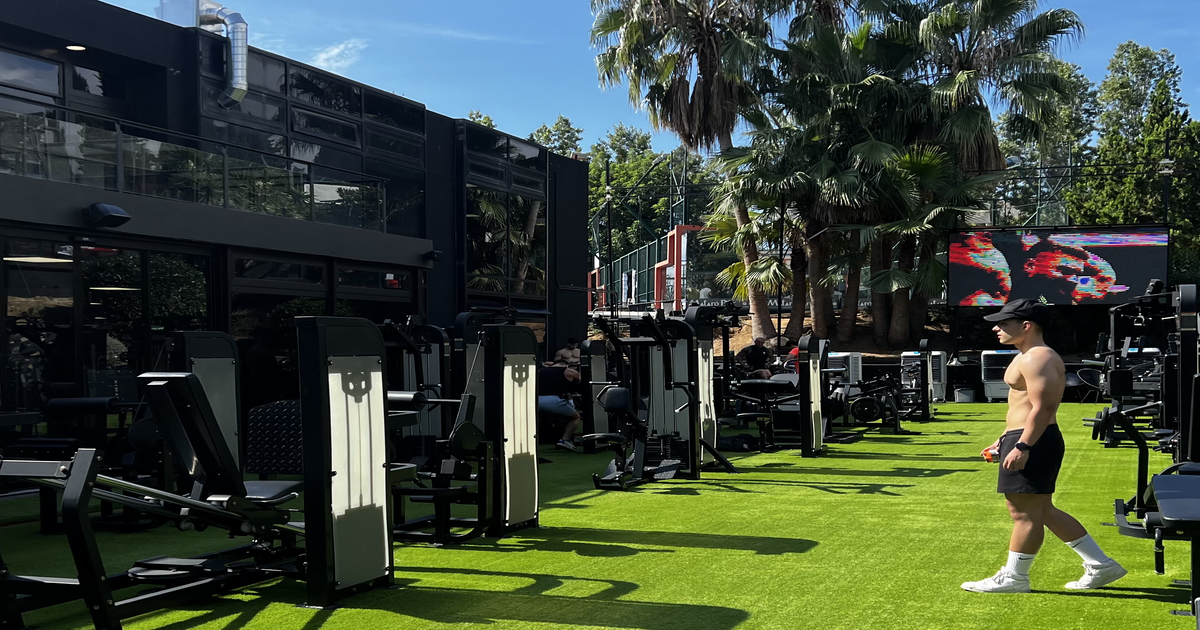
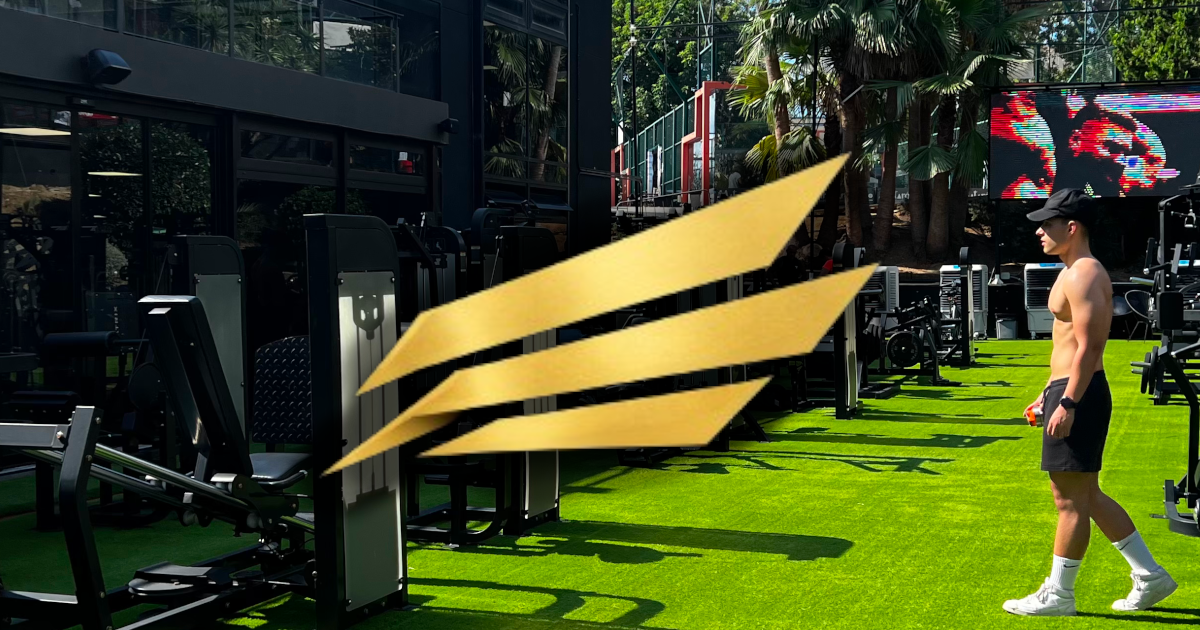
Change image when sharing

diff --git a/src/app/layout.js b/src/app/layout.js
@@ -73,9 +73,8 @@ export const metadata = {
     card: "summary_large_image",
     title: TITLE_DEFAULT,
     description: DESCRIPTION_DEFAULT,
-    images: ["/images/insta-logo.png"],
-    // Opcional si usas X/Twitter de verdad:
-    // site: "@gueros_official",
+    images: ["/images/intagramlogo.png"],
+    site: "@gueros_official",
   },
 
   icons: {
